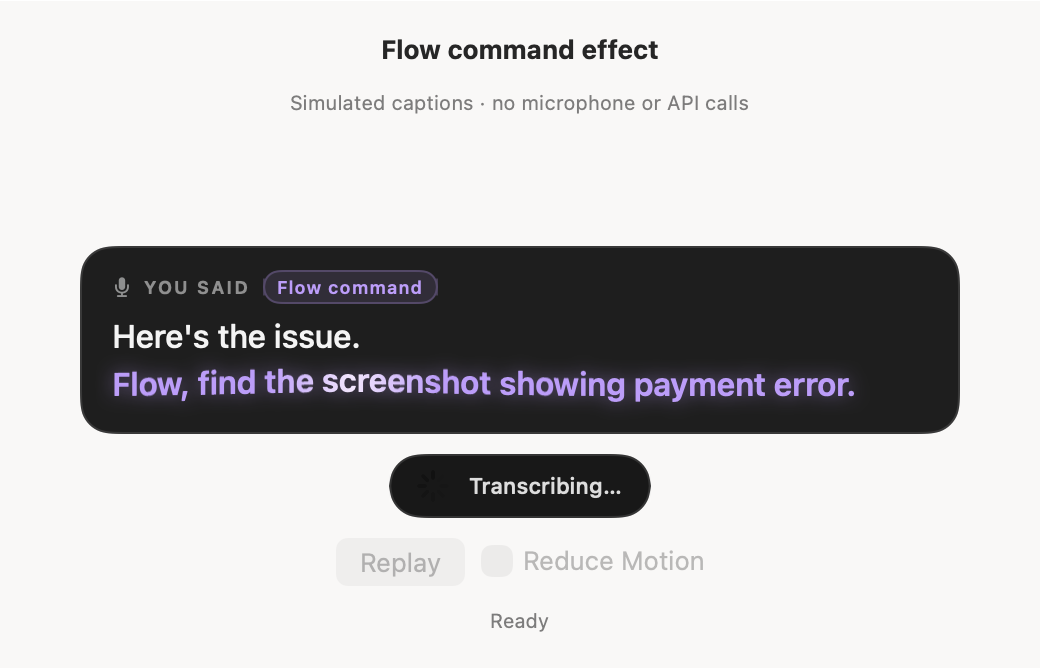
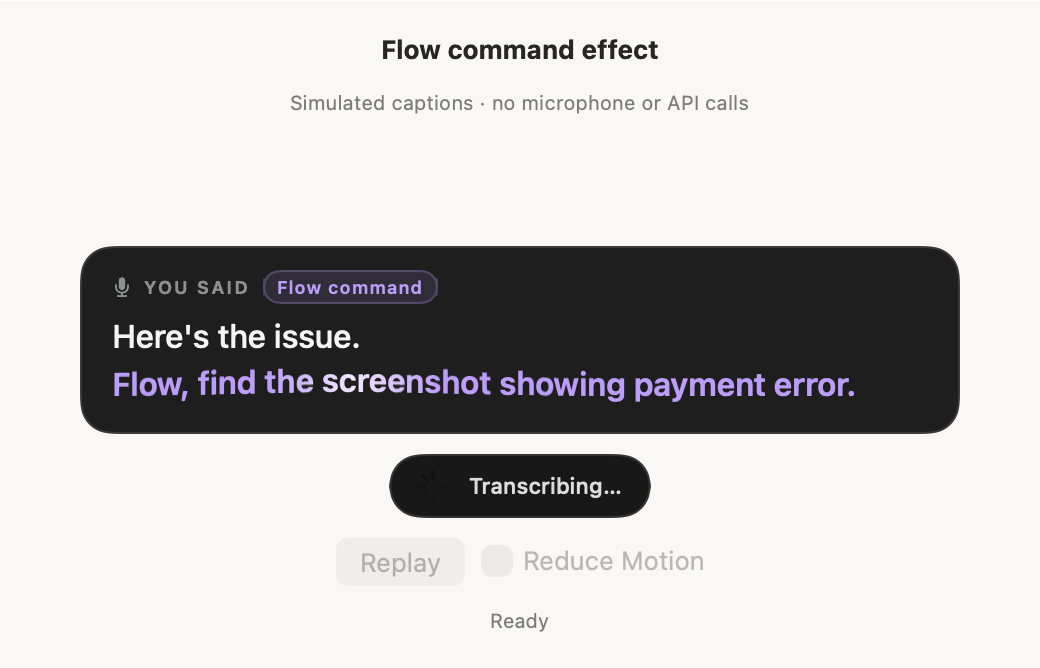
Flash the command glyphs after the ripple instead of casting a halo

Changed region(s): [[0.0923, 0.5389, 0.8308, 0.5988]]

diff --git a/Sources/FlowApp/LiquidCommandText.swift b/Sources/FlowApp/LiquidCommandText.swift
@@ -42,10 +42,13 @@ struct LiquidCommandText: View {
                     TimelineView(.animation(minimumInterval: 1.0 / 60, paused: !animating || reduceMotion)) { timeline in
                         let elapsed = rippleStart.map { timeline.date.timeIntervalSince($0) } ?? Self.animationDuration
                         let progress = animating && !reduceMotion ? min(1, max(0, elapsed / Self.rippleDuration)) : 1
-                        let rippling = animating && !reduceMotion && elapsed >= 0 && elapsed < Self.rippleDuration
                         let settling = (elapsed - Self.rippleDuration) / Self.settleDuration
-                        let settleGlow = animating && !reduceMotion && settling > 0 && settling < 1
+                        let settleFlash = animating && !reduceMotion && settling > 0 && settling < 1
                             ? sin(settling * .pi) : 0
+                        // Brighten the glyph fill itself: the finish has no halo
+                        // outside the cached letters, and all words flash together.
+                        let flashInk = Color(red: 0.76 + 0.20 * settleFlash,
+                                             green: 0.61 + 0.23 * settleFlash, blue: 1)
                         Canvas { context, size in
                             var image = context.resolve(Image(decorative: raster, scale: displayScale))
                             let bounds = CGRect(origin: .zero, size: size)
@@ -57,7 +60,7 @@ struct LiquidCommandText: View {
                                                                    FlowCommandBadge.ink, FlowCommandBadge.ink]),
                                                   startPoint: CGPoint(x: center - 85, y: 0),
                                                   endPoint: CGPoint(x: center + 85, y: 0))
-                                : .color(FlowCommandBadge.ink)
+                                : .color(flashInk)
                             if !active {
                                 context.draw(image, in: bounds)
                             } else {
@@ -77,9 +80,6 @@ struct LiquidCommandText: View {
                                 }
                             }
                         }
-                        .shadow(color: FlowCommandBadge.ink.opacity(0.18 + (rippling ? 0.30 : 0) + 0.70 * settleGlow),
-                                radius: 2 + (rippling ? 3 : 0) + 7 * settleGlow)
-                        .shadow(color: FlowCommandBadge.ink.opacity(0.50 * settleGlow), radius: 3)
                     }
                     .allowsHitTesting(false).accessibilityHidden(true)
                 }

diff --git a/scripts/preview-command-ripple.swift b/scripts/preview-command-ripple.swift
@@ -56,7 +56,7 @@ final class RipplePreview: ObservableObject {
             try await Task.sleep(for: .milliseconds(250)); savePNG("command-ripple-active.png")
             try await Task.sleep(for: .seconds(LiquidCommandText.rippleDuration + LiquidCommandText.settleDuration / 2 - 0.25))
             savePNG("command-ripple-settling.png")
-            checks["settling_glow_preview_rendered"] = FileManager.default.fileExists(atPath: output.appendingPathComponent("command-ripple-settling.png").path)
+            checks["settling_text_flash_preview_rendered"] = FileManager.default.fileExists(atPath: output.appendingPathComponent("command-ripple-settling.png").path)
             try await Task.sleep(for: .seconds(LiquidCommandText.settleDuration / 2 + 0.1)); savePNG("command-ripple-settled.png")
             let plan = try JSONDecoder().decode(AttachmentPlan.self, from: Data(#"{"message":"Here's the issue.","command":"Flow, find the screenshot showing payment error.","request":{"source":"file_search","kind":"image","query":"showing payment error"}}"#.utf8))
             attachments.receive(plan)

diff --git a/docs/command-ripple.md b/docs/command-ripple.md
@@ -8,13 +8,14 @@ caption text. Detection runs on the complete transcript before display cropping.
 This classifier only styles captions; the worker's authoritative command parser,
 message insertion and attachment safeguards are unchanged.
 
-During recording the command has a soft purple glow. When recording ends, a
+During recording the command has a static purple fill. When recording ends, a
 single 700 ms highlight and one smooth crest sweep from left to right,
 with up to 2 points of letter displacement. A Gaussian crest follows the highlight
 without oscillation or trailing ripples, with a gentle fade at either end.
-Once the crest has settled, a brighter purple glow with a broad halo and a tighter inner glow blooms once
-over 400 ms and
-fades to the static highlight. The letters stay still during this finish.
+Once the crest has settled, all command letters flash a bright luminous purple
+once over 400 ms, then fade back to their normal purple. This is a change in the
+glyph fill, using the cached glyph alpha mask, with no outer shadow or halo.
+The recipient message stays white. The letters stay still during this finish.
 The full timing is shared by rendering and animation cleanup.
 There is no replay on each partial recognition update. The glyph alpha image is
 cached per text/width/scale and drawn through narrow Canvas strips, so only the
@@ -28,7 +29,7 @@ and Needs detail for a clarification. The attachment picker repeats the Command
 badge. The full Messages runner passes its own attachment session into the HUD,
 so it observes the same real search as the popup.
 
-Reduce Motion disables the ripple and sweeping highlight while retaining static
+Reduce Motion disables the ripple, sweeping highlight and finishing flash while retaining static
 purple text, weight and the badge. A preview may request reduced motion but can
 never override the system preference to enable motion. No model calls, new
 packages or separately compiled shader resources are involved. The implementation
@@ -50,12 +51,13 @@ existing signed app bundle and permissions are preserved; this is a separate
 review helper using the updated app components.
 
 The preview exports [a GIF](../review/command-ripple.gif), stills for listening,
-mid-ripple, settling glow, settled, ordinary mentions, reduced motion and long commands, and
+mid-ripple, finishing text flash, settled, ordinary mentions, reduced motion
+and long commands, and
 [a scoped report](../review/command-ripple-verification.json). Its frame interval
 is a capture target, not a measured production frame-rate guarantee.
 
 33 Swift tests passed, including new cue-boundary, quotation, negation, Unicode
-and full-context guards. Eight native preview checks passed after the timing/glow adjustment. The exported stills
+and full-context guards. Eight native preview checks passed after the glyph-flash adjustment. The exported stills
 were visually reviewed: command motion/glow, unchanged recipient text, no
 microphone waveform during processing, readable long commands and static reduced
 motion. A pixel comparison between active/settled fixtures also found no changes

diff --git a/docs/attachment-resume.md b/docs/attachment-resume.md
@@ -274,3 +274,16 @@ ripple and 400 ms finish retain their timing; the extra glow is confined to the
 finish and remains disabled with Reduce Motion.
 The build and all eight native preview checks passed. The finishing frame was
 visually reviewed, and the updated Replay preview remains open.
+
+## Finishing flash inside the text (October 18)
+
+The user clarified that the finish should glow inside the text, like the ripple
+highlight, and that the whole command sentence should flash once. All outer
+shadows are removed. The finishing pulse now brightens the purple glyph fill
+across all command letters simultaneously, clipped to the cached alpha mask.
+The single 700 ms ripple and 400 ms finish retain their timing. Recipient text
+remains white, and Reduce Motion disables the flash.
+The build and eight native preview checks passed. The flash and settled frames
+were visually reviewed. A pixel comparison found 8,710 changed command pixels,
+zero changed background pixels in the command region and zero changed recipient
+text pixels. The updated Replay preview remains open.
